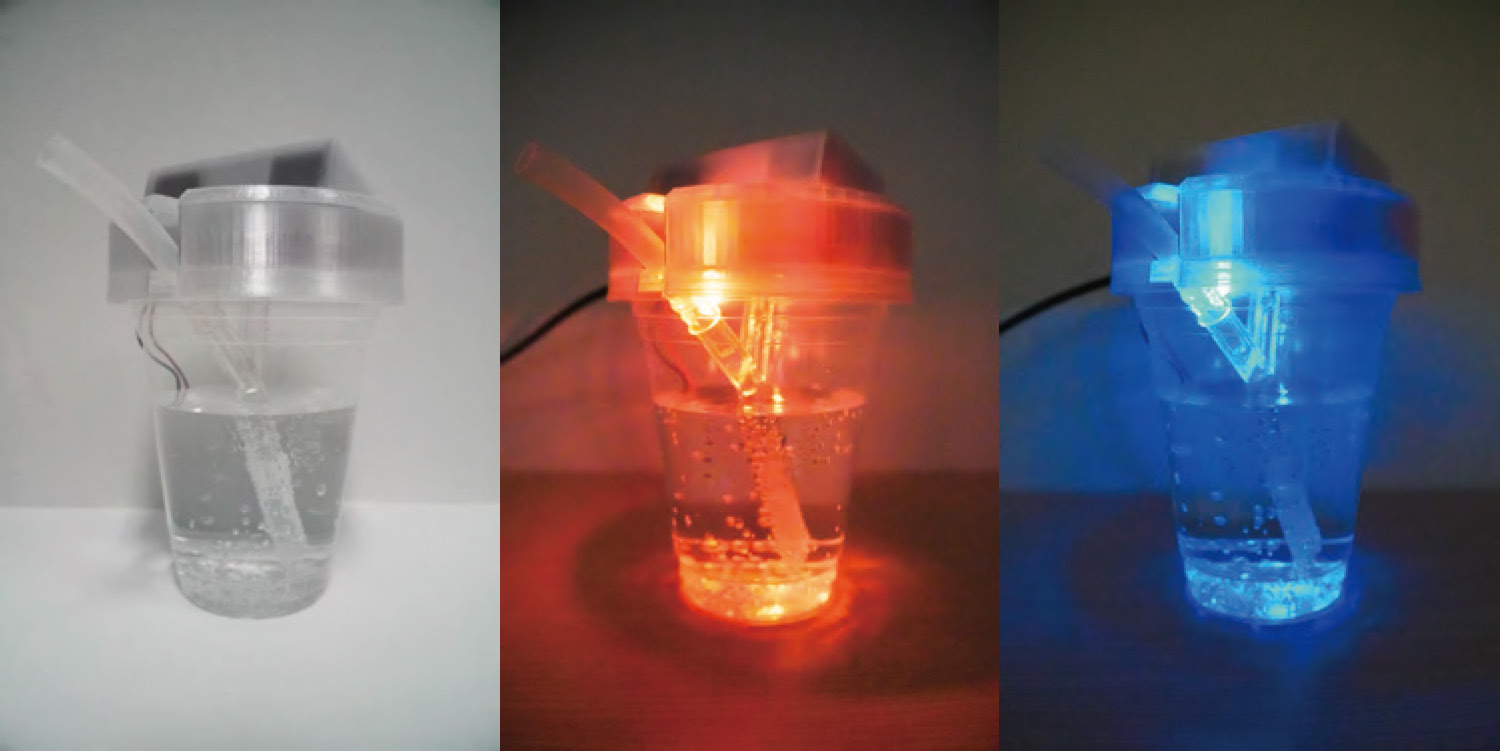
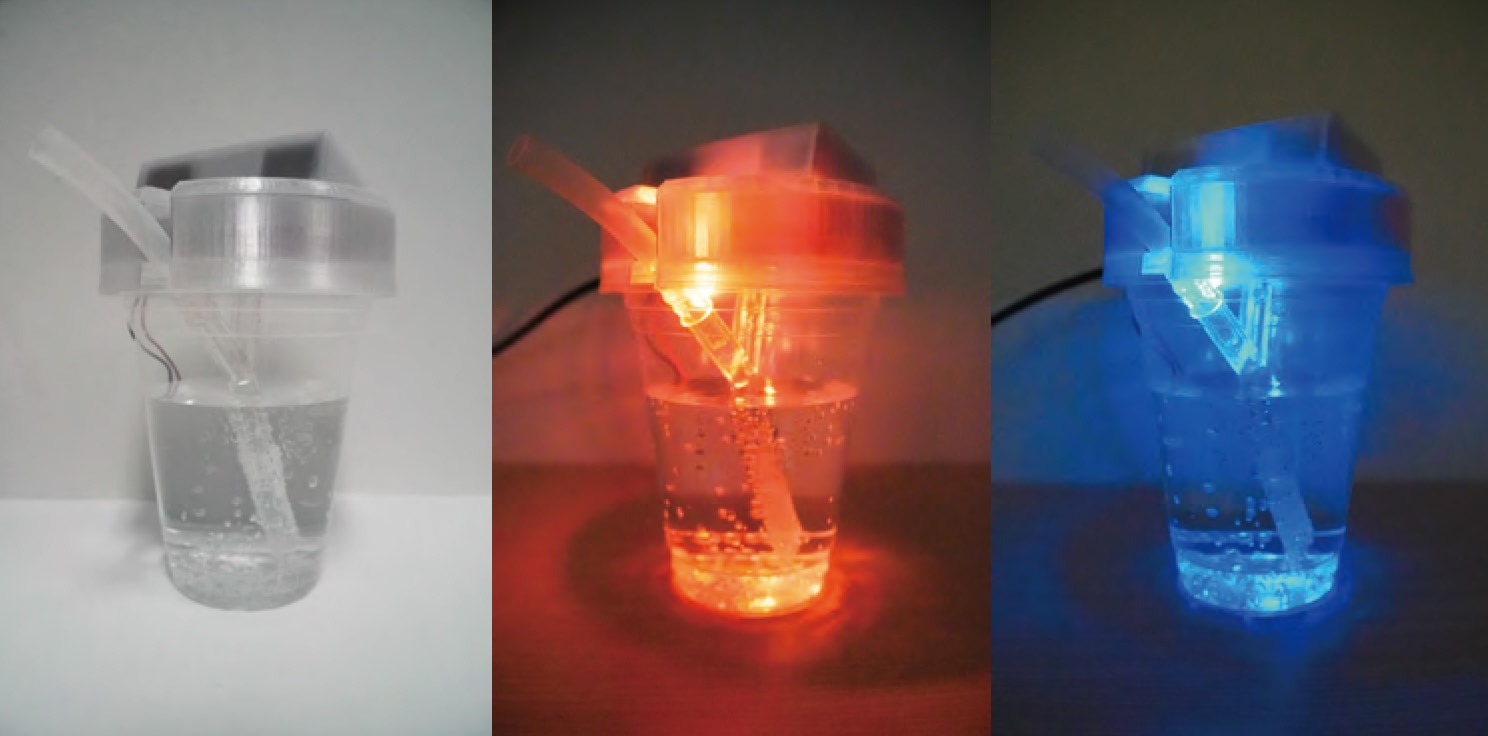
update

diff --git a/about.html b/about.html
@@ -40,12 +40,9 @@
                     <img src="image/pic.JPG" alt="Profile Picture">
                 </div>
                 <div>
-                    <h2 style="font-size: 2rem; margin-bottom: 1rem;">Biography</h2>
+                    <h3 style="font-size: 2rem; margin-bottom: 1rem;">Daiki Mayumi</h3>
                     <p style="color: #ccc; margin-bottom: 1rem;">
-                        I am currently enrolled in the Ph.D course at Nara Institute of Science and Technology (NAIST) and Ulm University (Germany). My research focuses on systems that support changes in purchasing behavior and on changing behaviors towards healthier dietary habits.
-                    </p>
-                    <p style="color: #ccc;">
-                        Specifically, I am working on the development of olfactory interfaces to help reduce sugar intake, and voice dialogue systems for food knowledge. I am driven by the goal of realizing smart cities and smart lifestyles through ubiquitous computing.
+                        I received Doctor of Engineering from the Nara Institute of Science and Technology (NAIST) and a Doctor of Natural Science (Dr. rer. nat.) from Ulm University (Germany) through a double degree program in 2026. I am currently a research scientist at NTT, Inc., Human Informatics Laboratories, where I work on human-computer interaction (HCI). My research focuses on behavior change through information technology.
                     </p>
                 </div>
             </div>
@@ -53,19 +50,18 @@
             <div class="pub-section-header">Education</div>
             <div class="timeline-container">
                 <div class="timeline-item">
-                    <span class="timeline-date">2024.04 - Present</span>
-                    <h4 class="timeline-title">Ph.D Course of Institute of Communications Engineering (Doctor of Natural Science) <a href="https://www.uni-ulm.de/nt/research/dialogue-systems/" target="_blank" style="color:var(--accent);">[Lab]</a></h4>
-                    <p class="timeline-desc">Dialogue System Lab., Ulm University, Germany</p>
+                    <span class="timeline-date">2024.04 - 2026.03</span>
+                    <h4 class="timeline-title">Dr. rer. nat., Ph.D Course of Institute of Communications Engineering, Ulm University, Germany<a href="https://www.uni-ulm.de/nt/research/dialogue-systems/" target="_blank" style="color:var(--accent);">[Lab]</a></h4>
                 </div>
                 <div class="timeline-item">
-                    <span class="timeline-date">2023.04 - Present</span>
+                    <span class="timeline-date">2023.04 - 2026.03</span>
                     <h4 class="timeline-title">奈良先端科学技術大学院大学 先端科学技術研究科 先端科学技術専攻 情報科学領域 博士後期課程（博士・工学）<a href="https://ubi-lab.naist.jp/ja.html" target="_blank" style="color:var(--accent);">[Lab]</a></h4>
-                    <p class="timeline-desc">Ph.D Course of Information Science, Nara Institute of Science and Technology, Japan</p>
+                    <p class="timeline-desc">Doctor of Engineering, Ph.D Course of Information Science, Nara Institute of Science and Technology, Japan</p>
                 </div>
                 <div class="timeline-item">
                     <span class="timeline-date">2021.04 - 2023.03</span>
                     <h4 class="timeline-title">奈良先端科学技術大学院大学 先端科学技術研究科 先端科学技術専攻 情報科学領域 博士前期課程（修士・工学）<a href="https://ubi-lab.naist.jp/ja.html" target="_blank" style="color:var(--accent);">[Lab]</a></h4>
-                    <p class="timeline-desc">Master of Information Science, Nara Institute of Science and Technology, Japan</p>
+                    <p class="timeline-desc">Master of Engineering, Master's Course of Information Science, Nara Institute of Science and Technology, Japan</p>
                 </div>
                 <div class="timeline-item">
                     <span class="timeline-date">2017.04 - 2021.03</span>
@@ -77,14 +73,19 @@
             <div class="pub-section-header">Work Experience</div>
             <div class="timeline-container">
                 <div class="timeline-item">
-                    <span class="timeline-date">2024.04 - Present</span>
+                    <span class="timeline-date">2026.03 - Present</span>
+                    <h4 class="timeline-title">NTT株式会社 人間情報研究所 硏究員</h4>
+                    <p class="timeline-desc">Researcher, Human Informatics Laboratories, NTT, Inc.</p>
+                </div>
+                <div class="timeline-item">
+                    <span class="timeline-date">2024.04 - 2026.03</span>
                     <h4 class="timeline-title">次世代研究者挑戦的研究プログラム</h4>
                     <p class="timeline-desc">SPRING : Support for Pioneering Research Initiated by the Next Generation</p>
                 </div>
                 <div class="timeline-item">
-                    <span class="timeline-date">2024.04 - 2025.03</span>
-                    <h4 class="timeline-title">クマ財団 クリエイター奨学金（AI）第8期生 <a href="https://kuma-foundation.org/exhibition/08/archives/daiki-mayumi/" target="_blank" style="color:var(--accent);">[URL]</a></h4>
-                    <p class="timeline-desc">Kuma Foundation, Creators' Scholarship (AI)</p>
+                    <span class="timeline-date">2024.04 - 2025.06</span>
+                    <h4 class="timeline-title">訪問研究者, ウルム大学（ドイツ）</h4>
+                    <p class="timeline-desc">Visiting Researcher, Ulm University, Germany.</p>
                 </div>
                 <div class="timeline-item">
                     <span class="timeline-date">2023.04 - 2024.03</span>
@@ -96,68 +97,65 @@
                     <h4 class="timeline-title">訪問研究者, ウルム大学（ドイツ）</h4>
                     <p class="timeline-desc">Visiting Researcher, Ulm University, Germany.</p>
                 </div>
-                <div class="timeline-item">
-                    <span class="timeline-date">2022.08 - 2023.07</span>
-                    <h4 class="timeline-title">（インターンシップ）株式会社ハウテレビジョン　データサイエンスエンジニア</h4>
-                    <p class="timeline-desc">Howtelevision, Inc., Data Science Engineer (Internship)</p>
-                </div>
-                <div class="timeline-item">
-                    <span class="timeline-date">2022.07 - 2023.06</span>
-                    <h4 class="timeline-title">（共同研究）グローブライド株式会社　データアナリスト</h4>
-                    <p class="timeline-desc">Globeride, Inc., Data Analyst (Joint Research)</p>
-                </div>
-                <div class="timeline-item">
-                    <span class="timeline-date">2021.11 - 2021.12</span>
-                    <h4 class="timeline-title">（インターンシップ）株式会社ファーストリテイリング　データサイエンスエンジニア</h4>
-                    <p class="timeline-desc">FAST RETAILING CO., LTD., Data Science Engineer (Internship)</p>
-                </div>
-                <div class="timeline-item">
-                    <span class="timeline-date">2021.05 - 2025.11</span>
-                    <h4 class="timeline-title">（共同研究）讀賣テレビ放送株式会社　データアナリスト</h4>
-                    <p class="timeline-desc">YOMIURI TELECASTING CORPORATION., Data Analyst (Joint Research)</p>
-                </div>
             </div>
+
+            <div class="pub-section-header">Research Funding & Scholarship</div>
+            <ul class="pub-list">
+                <li class="pub-item">
+                    <span class="timeline-date">2024.04 - 2026.03</span>
+                    <h4 class="timeline-title">次世代研究者挑戦的研究プログラム 研究奨励費</h4>
+                    <p class="timeline-desc">SPRING : Support for Pioneering Research Initiated by the Next Generation</p>
+                </li>
+                <li class="pub-item">
+                    <span class="timeline-date">2024.04 - 2025.03</span>
+                    <h4 class="timeline-title">クマ財団 クリエイター奨学金（AI）第8期生 <a href="https://kuma-foundation.org/exhibition/08/archives/daiki-mayumi/" target="_blank" style="color:var(--accent);">[URL]</a></h4>
+                    <p class="timeline-desc">Kuma Foundation, Creators' Scholarship (AI)</p>
+                </li>
+                <li class="pub-item">
+                    <span class="timeline-date">2023.04 - 2024.03</span>
+                    <h4 class="timeline-title">公益財団法人 奈良先端科学技術大学院大学支援財団 令和6年度支援財団支援事業 研究テーマ助成</h4>
+                    <p class="timeline-desc">Foundation for Nara Institute of Science and Technology</p>
+                </li>
+                <li class="pub-item">
+                    <span class="timeline-date">2023.04 - 2024.03</span>
+                    <h4 class="timeline-title">創発的先端人材育成 フェローシップ 研究奨励費<a href="http://isw3.naist.jp/IS/is-fellowship/pr/interview/2023/mayumi/" target="_blank" style="color:var(--accent);">[URL]</a></h4>
+                    <p class="timeline-desc">NAIST University Fellowships for the Creation of Innovation in Science and Technology.</p>
+                </li>
+           </div>
 
             <div class="pub-section-header">Activities & Exhibition</div>
             <ul class="pub-list">
                 <li class="pub-item">
-                    <span class="pub-title">KUMA experiment 2024-25 vol.7 『余白/blank/freiraum/空白（Kung¹ baak⁶）』<a href="https://kuma-foundation.org/gallery/event/kuma-experiment24-25_07/" target="_blank" style="color:var(--accent);">[URL]</a></span>
-                    <span class="pub-meta">公益財団法人クマ財団, 2025.3.1-9</span>
+                    <span class="pub-title">異能vation ジェネレーションアワード ノミネート, 2025年度 <a href="https://inno-vation.jp/nominate/2025/" target="_blank" style="color:var(--accent);">[URL]</a></span>
+                    <span class="pub-meta">Generation Award Nominated, Innovation, 2025.</span>
                 </li>
                 <li class="pub-item">
-                    <span class="pub-title">NIPPON INNOVATION AWARD ノミネート <a href="https://update-earth.com/" target="_blank" style="color:var(--accent);">[URL]</a></span>
-                    <span class="pub-meta">UPDATE EARTH コンペティション, UPDATE EARTH, 2024</span>
+                    <span class="pub-title">公益財団法人クマ財団 KUMA experiment 2024-25 vol.7 『余白/blank/freiraum/空白（Kung¹ baak⁶）』, 2025.3.1-9<a href="https://kuma-foundation.org/gallery/event/kuma-experiment24-25_07/" target="_blank" style="color:var(--accent);">[URL]</a></span>
+                    <span class="pub-meta">KUMA experiment 2024-25 vol.7 『余白/blank/freiraum/空白（Kung¹ baak⁶）』, KUMA FOUNDATION, 2025.3.1-9.</span>
                 </li>
                 <li class="pub-item">
-                    <span class="pub-title">ジェネレーションアワード ノミネート <a href="https://www.inno.go.jp/result/2023/generation/nominate/" target="_blank" style="color:var(--accent);">[URL]</a></span>
-                    <span class="pub-meta">ジェネレーションアワード, 異能vation, 2024</span>
+                    <span class="pub-title">UPDATE EARTH NIPPON INNOVATION AWARD ノミネート, 2024 <a href="https://update-earth.com/" target="_blank" style="color:var(--accent);">[URL]</a></span>
+                    <span class="pub-meta">NIPPON INNOVATION AWARD Nominated, UPDATE EARTH, 2024.</span>
                 </li>
                 <li class="pub-item">
-                    <span class="pub-title">CES 2023 Exhibition <a href="https://ces-japantech.jp/en/" target="_blank" style="color:var(--accent);">[URL]</a></span>
-                    <span class="pub-meta">Las Vegas, USA, 2023.1.5-8</span>
+                    <span class="pub-title">異能vation ジェネレーションアワード ノミネート, 2023年度 <a href="https://www.inno.go.jp/result/2023/generation/nominate/" target="_blank" style="color:var(--accent);">[URL]</a></span>
+                    <span class="pub-meta">Generation Award Nominated, Innovation, 2023.</span>
                 </li>
                 <li class="pub-item">
-                    <span class="pub-title">近鉄百貨店生駒店 SDGsイベント</span>
-                    <span class="pub-meta">IoTで飲み物を味変！香りを使って健康に, 2022.11.05</span>
+                    <span class="pub-title">CES 2023 Exhibition, Las Vegas, USA, 2023.1.5-8<a href="https://ces-japantech.jp/en/" target="_blank" style="color:var(--accent);">[URL]</a></span>
                 </li>
                 <li class="pub-item">
-                    <span class="pub-title">近鉄百貨店生駒店 HAPIECO WEEK（ハピエコウィーク）</span>
-                    <span class="pub-meta">IoTトングで環境美化に貢献, 2022.05.21-22</span>
+                    <span class="pub-title">近鉄百貨店生駒店 SDGsイベント, IoTで飲み物を味変！香りを使って健康に, 2022.11.05.</span>
                 </li>
                 <li class="pub-item">
-                    <span class="pub-title">大阪うめきた外庭SQUAREでのゴミ拾いイベント（SWEEP UP活動）</span>
-                    <span class="pub-meta">2022.04.02</span>
-                </li>
-                <li class="pub-item">
-                    <span class="pub-title">IoTトングでひろえば街が好きになる運動 with Rethink PROJECT <a href="https://www.city.ikoma.lg.jp/0000028835.html" target="_blank" style="color:var(--accent);">[URL]</a></span>
-                    <span class="pub-meta">2022.03.19</span>
+                    <span class="pub-title">IoTトングでひろえば街が好きになる運動 with Rethink PROJECT, 2022.03.19<a href="https://www.city.ikoma.lg.jp/0000028835.html" target="_blank" style="color:var(--accent);">[URL]</a></span>
                 </li>
             </ul>
 
         </section>
     </main>
 
-    <footer>&copy; 2025 Daiki Mayumi.</footer>
+    <footer>&copy; 2026 Daiki Mayumi.</footer>
     <script src="main.js"></script>
 </body>
 </html>

diff --git a/index.html b/index.html
@@ -62,36 +62,35 @@
 
                 <div>
                     <div style="margin-bottom: 3rem;">
-                        <p style="font-family:var(--font-code); color:var(--accent); margin-bottom:1rem;">BIOGRAPHY</p>
+                        <h2 style="font-size: 2rem; margin-bottom: 1rem; padding-bottom: 0rem; color:#fff;">Daiki Mayumi</h2>
                         <p style="color: #ccc; margin-bottom: 1rem; font-size:1.05rem;">
-                            I am currently enrolled in the Ph.D course at Nara Institute of Science and Technology (NAIST) and Ulm University (Germany). My research focuses on systems that support changes in purchasing behavior and on changing behaviors towards healthier dietary habits.
-                            Specifically, I am working on the development of olfactory interfaces to help reduce sugar intake, and voice dialogue systems for food knowledge. I am driven by the goal of realizing smart cities and smart lifestyles through ubiquitous computing.
+                            I received Doctor of Engineering from the Nara Institute of Science and Technology (NAIST) and a Doctor of Natural Science (Dr. rer. nat.) from Ulm University (Germany) through a double degree program in 2026. I am currently a research scientist at NTT, Inc., Human Informatics Laboratories, where I work on human-computer interaction (HCI). My research focuses on behavior change through information technology.
                         </p>
                     </div>
 
                     <h3 style="font-size: 1.5rem; margin-bottom: 1.5rem; border-bottom: 1px solid #333; padding-bottom: 0.5rem; color:#fff;">Education</h3>
                     <div class="timeline-container">
                         <div class="timeline-item">
-                            <span class="timeline-date">2023.04 - Present</span>
-                            <h4 class="timeline-title">Ph.D Course of Information Science (Double Degree)</h4>
-                            <p class="timeline-desc">Nara Institute of Science and Technology (Japan) & Ulm University (Germany)</p>
+                            <span class="timeline-date">2023.04 - 2026.03</span>
+                            <h4 class="timeline-title">Doctor of Engineering</h4>
+                            <p class="timeline-desc">Ph.D Course of Information Science, Nara Institute of Science and Technology (Japan)</p>
                         </div>
                         <div class="timeline-item">
                             <span class="timeline-date">2021.04 - 2023.03</span>
-                            <h4 class="timeline-title">Master of Information Science</h4>
-                            <p class="timeline-desc">Nara Institute of Science and Technology (Japan)</p>
+                            <h4 class="timeline-title">Master of Engineering</h4>
+                            <p class="timeline-desc">Master's Course of Information Science, Nara Institute of Science and Technology (Japan)</p>
                         </div>
                     </div>
 
                     <h3 style="font-size: 1.5rem; margin-bottom: 1.5rem; border-bottom: 1px solid #333; padding-bottom: 0.5rem; color:#fff;">Work Experience</h3>
                     <div class="timeline-container">
                         <div class="timeline-item">
-                            <span class="timeline-date">2023.04 - Present</span>
-                            <h4 class="timeline-title">SPRING : Support for Pioneering Research Initiated by the Next Generation</h4>
+                            <span class="timeline-date">2026.04 - Present</span>
+                            <h4 class="timeline-title">NTT, Inc., Human Informatics Laboratories, Researcher</h4>
                         </div>
                         <div class="timeline-item">
-                            <span class="timeline-date">2024.04 - 2025.03</span>
-                            <h4 class="timeline-title">Kuma Foundation, Creators' Scholarship (AI)</h4>
+                            <span class="timeline-date">2023.04 - 2026.03</span>
+                            <h4 class="timeline-title">SPRING : Support for Pioneering Research Initiated by the Next Generation</h4>
                         </div>
                     </div>
                     <a href="about.html" class="btn-link" style="margin-top: 1rem;">View Full Profile -></a>
@@ -176,7 +175,7 @@
 
     </main>
 
-    <footer>&copy; 2025 Daiki Mayumi.</footer>
+    <footer>&copy; 2026 Daiki Mayumi.</footer>
     <script src="main.js"></script>
 </body>
 </html>
